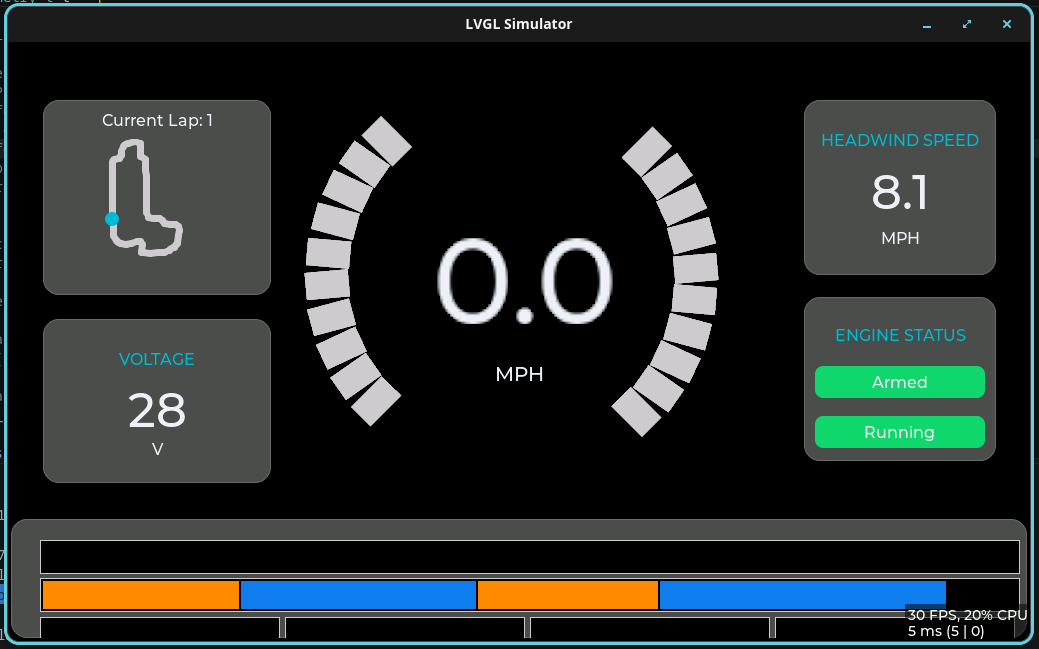
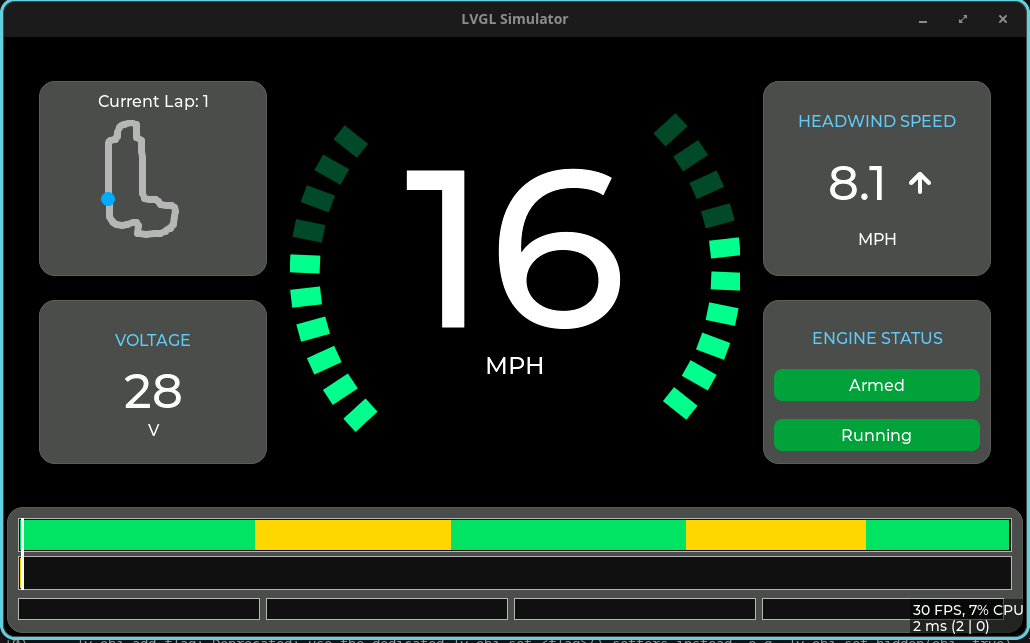
just some housekeeping, moving back some seperation, update readme for simplicity

diff --git a/README.md b/README.md
@@ -1,9 +1,9 @@
-# Car Display for Cedarville's Supermileage 
+# Car Display for Cedarville's Supermileage
 ### Orginal Design by Zaine F, and the Supermileage Computer Team of 2025-2026
 
 ![Car Display Demo](https://github.com/HEEV/CarDisplay/blob/main/demo.png?raw=true)
 
-Host Simulation program to preview and prepare a system natively, without the use of a RasPi 5. 
+Host Simulation program to preview and prepare a system natively, without the use of a RasPi 5.
 Based on LVGL Linux Port, reqiures GCC and SDL for Host rendering.
 
 Prerequisites:
@@ -17,16 +17,13 @@ brew install cmake sdl2
 ```
 
 Compilation command:
-``` shell 
-mkdir build
-cd build
-cmake ..
-cd ..
+``` shell
+cmake -B build
 cmake --build build
 ```
 
 Run with:
 
-``` shell 
+``` shell
 ./bin/main
 ```
